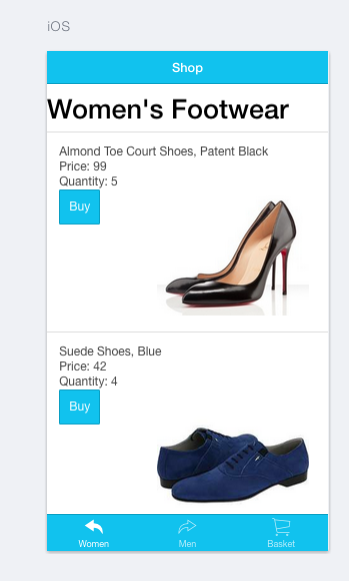
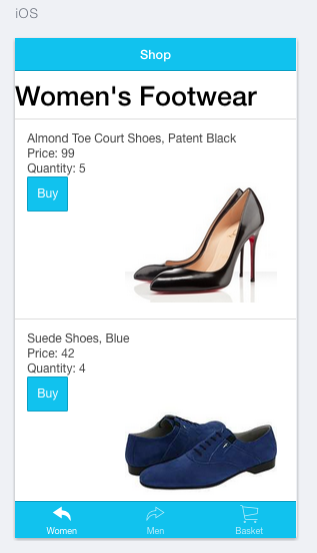
stylling

Changed region(s): [[0.0284, 0.0307, 0.9653, 0.9837], [0.4259, 0.3382, 0.8517, 0.5533], [0.0568, 0.0, 0.1136, 0.0307]]

diff --git a/www/css/style.css b/www/css/style.css
@@ -6,7 +6,15 @@
 
 .shop-picture {
 	position: relative;
-  top: 60%;
+  top: 70%;
+  right: 1%;
+  width: 90%;
+  height: 90%;
+}
+
+.style-picture {
+  position: relative;
+  top: 40%;
   right: 20%;
   width: 140%;
   height: 140%;
@@ -23,11 +31,12 @@ a:hover, a:visited, a:link, a:active{
 }
 
 #men, #women {
-   list-style-type:none;
-   margin:50px;
-   padding:25px;
-   text-align: center;
+  list-style-type:none;
+  margin:50px;
+  padding:25px;
+  text-align: center;
   font-size: 2em;
+  color: black;
 }
 
 #men {

diff --git a/www/templates/stock.html b/www/templates/stock.html
@@ -1,10 +1,10 @@
 <ion-view view-title="Shop">
   <ion-content>
-  <h1> Welcome to the shop</h1>
+      <div><br>
 	  <a id="women" class="women-link" href="#/tab/women">Women's Clothes</a><br>
 	  <a id="men" class="men-link" href="#/tab/men">Men's Clothes</a>
-	  <div>
+	  </div><br>
 	  <img class="shop-picture" src="/img/drawing.png">
-	  </div>
+	  <img class="style-picture" src="/img/style-logo.png">
   </ion-content>
 </ion-view>
